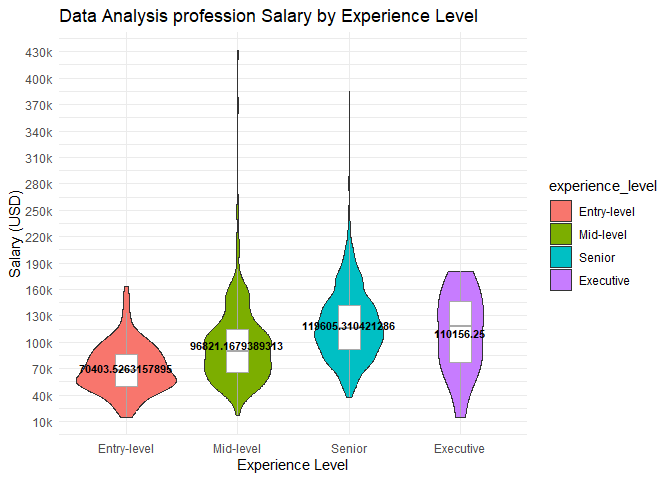
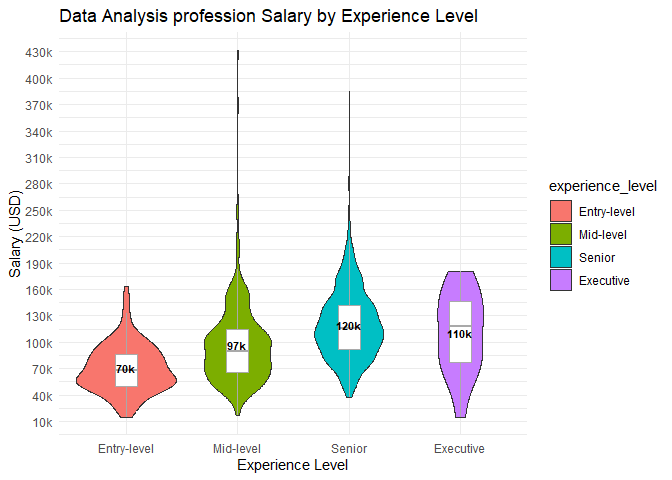
updating

diff --git a/Jobs_Salary_Data_Science.md b/Jobs_Salary_Data_Science.md
@@ -639,10 +639,16 @@ ggplot(data_analyst, aes(x = experience_level, y = salary_in_usd, fill = experie
   geom_violin() +
   geom_boxplot(width = 0.2, fill = "white", color = "darkgrey", outlier.shape = NA) +
   labs(title = "Data Analysis profession Salary by Experience Level", x = "Experience Level", y = "Salary (USD)") +
-  stat_summary(fun.data = mean_cl_normal, geom = "text", size = 3, color = "black", fontface = "bold", aes(label = after_stat(y))) +  # Display mean value
+  stat_summary(fun.data = mean_cl_normal, geom = "text", size = 3, color = "black", fontface = "bold", aes(label = format_label(..y..))) +  # Display mean value
   scale_y_continuous(labels = scales::number_format(accuracy = 1, scale = 1e-3, suffix = "k"), breaks = seq(10000, 430000, by = 30000)) +  # Format y-axis labels
   theme_minimal()
 ```
+
+    ## Warning: The dot-dot notation (`..y..`) was deprecated in ggplot2 3.4.0.
+    ## ℹ Please use `after_stat(y)` instead.
+    ## This warning is displayed once every 8 hours.
+    ## Call `lifecycle::last_lifecycle_warnings()` to see where this warning was
+    ## generated.
 
 ![](Jobs_Salary_Data_Science_files/figure-gfm/unnamed-chunk-20-1.png)<!-- -->
 
@@ -717,12 +723,6 @@ ggplot(data_analyst_entry, aes(x = company_size, y = salary_in_usd, fill = compa
   scale_y_continuous(labels = scales::number_format(accuracy = 1, scale = 1e-3, suffix = "k"), breaks = seq(0, 164000, by = 15000)) +  # Format y-axis labels
   theme_minimal()
 ```
-
-    ## Warning: The dot-dot notation (`..y..`) was deprecated in ggplot2 3.4.0.
-    ## ℹ Please use `after_stat(y)` instead.
-    ## This warning is displayed once every 8 hours.
-    ## Call `lifecycle::last_lifecycle_warnings()` to see where this warning was
-    ## generated.
 
 ![](Jobs_Salary_Data_Science_files/figure-gfm/unnamed-chunk-23-1.png)<!-- -->
 
